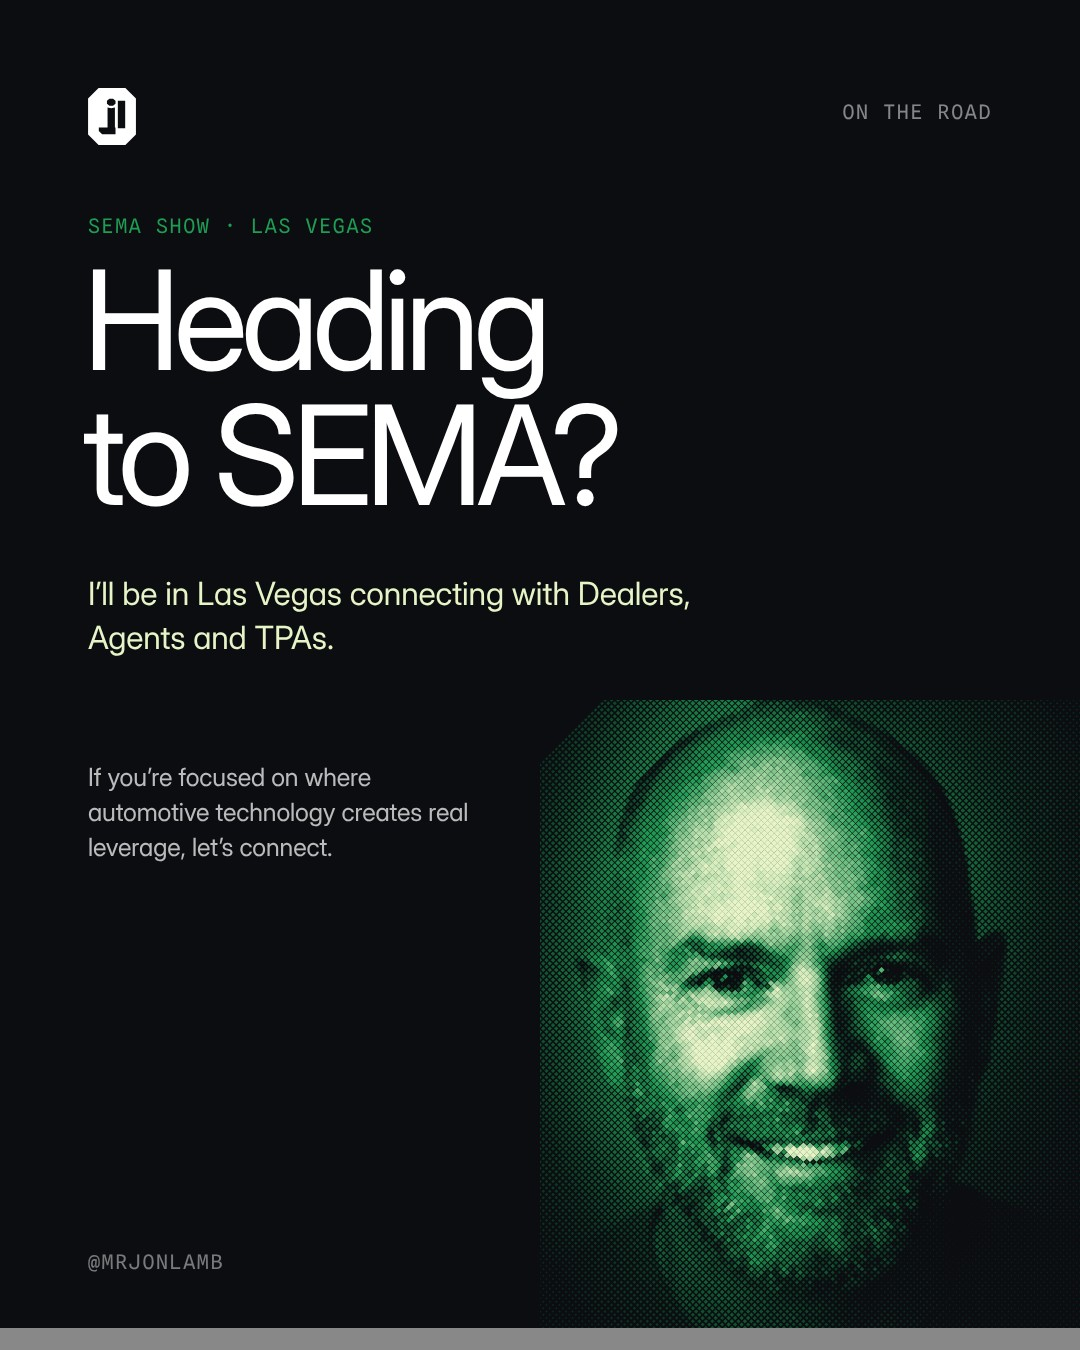
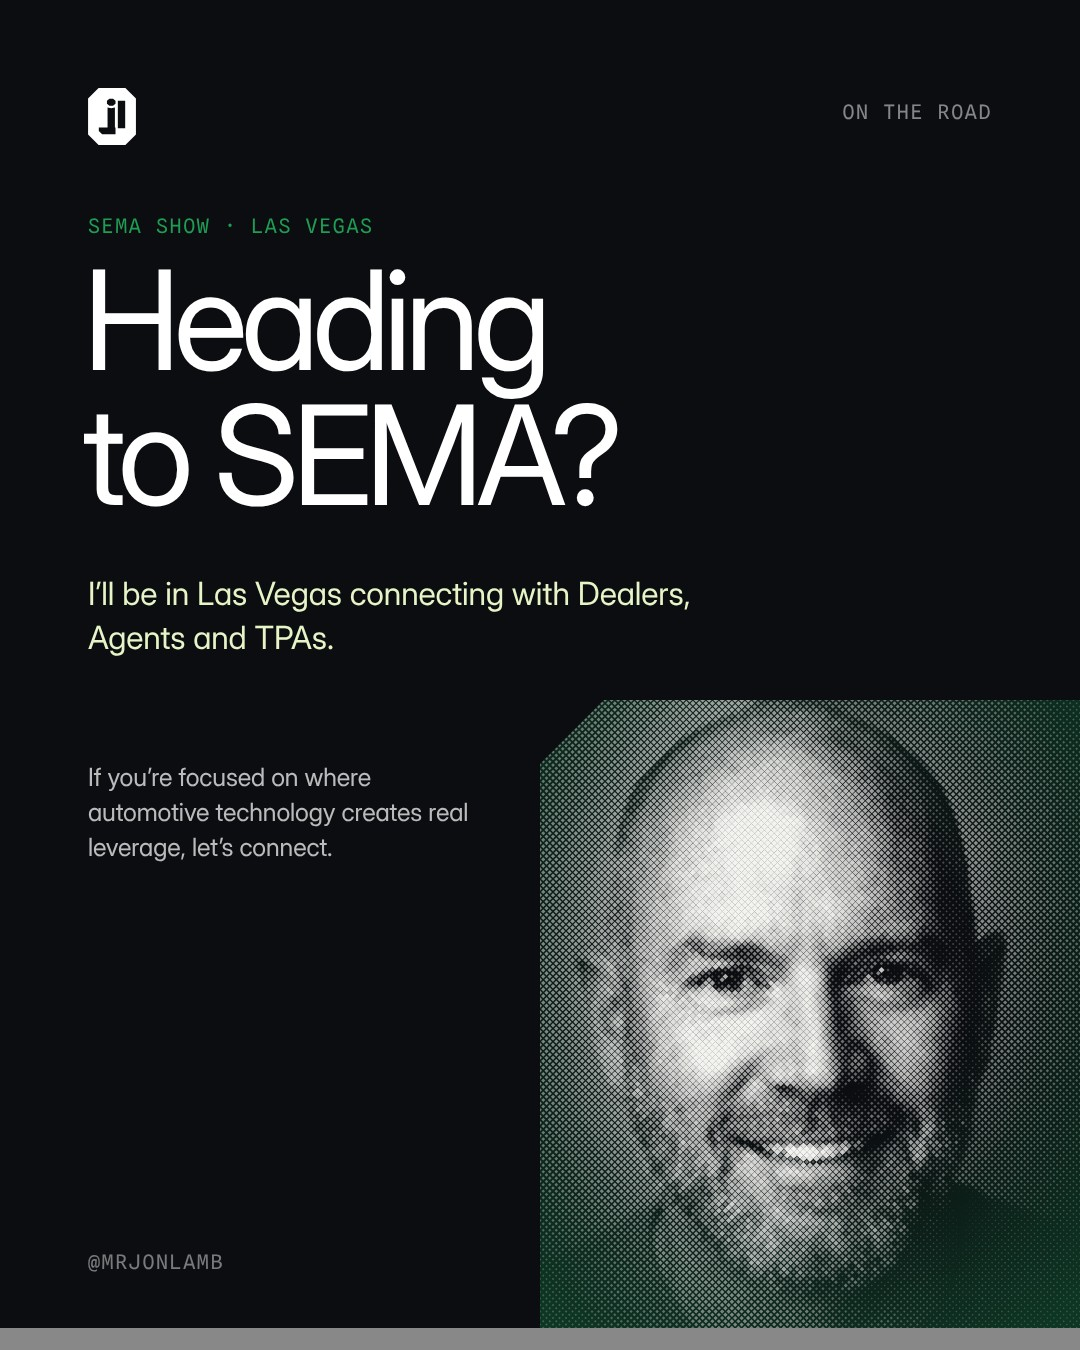
Make portraits neutral and add the personal bio lines.
Portraits now render in ink and paper with Deep Signal only in the
ground around the head, so green never tints skin. Re-renders Jon's
nine pieces, renames the plain treatment to monochrome, and adds
'dad and day trader' to the site bio and the about post.

Claude-Session: https://claude.ai/code/session_01N9uR7imwXqJUC6zuiRqo7L

Changed region(s): [[0.4889, 0.4978, 1.0, 0.9956]]

diff --git a/brand/autotech-insights-guidelines/main.js b/brand/autotech-insights-guidelines/main.js
@@ -106,14 +106,22 @@ const photoData = (img, w, h, fy) => { const c = document.createElement('canvas'
   const k = Math.max(w / img.naturalWidth, h / img.naturalHeight), dw = img.naturalWidth * k, dh = img.naturalHeight * k;
   x.imageSmoothingQuality = 'high'; x.drawImage(img, (w - dw) / 2, (h - dh) * fy, dw, dh); return x.getImageData(0, 0, w, h).data; };
 const tone = (d, i) => Math.pow(Math.min(1, Math.max(0, ((d[i] * .2126 + d[i + 1] * .7152 + d[i + 2] * .0722) / 255 - .16) / .66)), 1.08);
+const PHC = { ink: [11, 13, 16], paper: [243, 243, 240], deep: [14, 59, 38] };
+const mix3 = (p, q, t) => [Math.round(p[0] + (q[0] - p[0]) * t), Math.round(p[1] + (q[1] - p[1]) * t), Math.round(p[2] + (q[2] - p[2]) * t)];
+/* portraits stay neutral: ink to paper on dark, paper to ink on light. Green only enters the ground at the edge of the vignette, never the face. */
+const photoGround = (mode, e) => mode ? PHC.paper : mix3(PHC.ink, PHC.deep, e * .9);
+const photoRGB = (mode, t, e) => mode ? mix3(PHC.paper, PHC.ink, t * .94) : mix3(photoGround(0, e), PHC.paper, t);
 const drawPhoto = (cv, img) => { const mode = +(cv.dataset.mode || 0), r = cv.getBoundingClientRect(); if (!r.width || !img.naturalWidth) return;
   const dpr = Math.min(devicePixelRatio || 1, 2), W = cv.width = Math.round(r.width * dpr), H = cv.height = Math.round(r.height * dpr), x = cv.getContext('2d'), fy = +(cv.dataset.fy || .5);
-  if (cv.dataset.treat === 'duo') { const d = photoData(img, W, H, fy), vg = +(cv.dataset.vig || .78), out = x.createImageData(W, H), lut = Array.from({ length: 256 }, (_, i) => rampRGB(mode, mode ? 1 - i / 255 * .96 : i / 255 * .97 + .03));
-    for (let i = 0; i < d.length; i += 4) { const q = i / 4, dx = (q % W) / W - .5, dy = Math.floor(q / W) / H - (fy * .3 + .33), k = 1 - vg * Math.min(1, Math.max(0, (Math.hypot(dx, dy * .9) - .3) / .34)); const tv = tone(d, i); const c = lut[Math.round((mode ? 1 - (1 - tv) * k : tv * k) * 255)]; out.data[i] = c[0]; out.data[i + 1] = c[1]; out.data[i + 2] = c[2]; out.data[i + 3] = 255; } x.putImageData(out, 0, 0); return; }
+  const vg = +(cv.dataset.vig || .8), cy = fy * .3 + .33, edge = (nx, ny) => Math.min(1, Math.max(0, (Math.hypot(nx - .5, (ny - cy) * .9) - .3) / .34));
+  if (cv.dataset.treat === 'mono') { const d = photoData(img, W, H, fy), out = x.createImageData(W, H);
+    for (let i = 0; i < d.length; i += 4) { const q = i / 4, e = edge((q % W) / W, Math.floor(q / W) / H), tv = tone(d, i), c = photoRGB(mode, (mode ? 1 - tv : tv) * (1 - vg * e), e);
+      out.data[i] = c[0]; out.data[i + 1] = c[1]; out.data[i + 2] = c[2]; out.data[i + 3] = 255; } x.putImageData(out, 0, 0); return; }
   const c = (+cv.dataset.cell || 5) * dpr * Math.SQRT2, hc = c / 2, sw = Math.ceil(W / hc) + 2, sh = Math.ceil(H / hc) + 2, d = photoData(img, sw, sh, fy);
-  x.fillStyle = 'rgb(' + rampRGB(mode, 0) + ')'; x.fillRect(0, 0, W, H);
-  for (let j = 0; j < sh; j++) for (let i = 0; i * c < W + c; i++) { const px = i * c + (j & 1) * hc, py = j * hc, sx = Math.min(sw - 1, Math.round(px / hc)), v = tone(d, (j * sw + sx) * 4), vg = +(cv.dataset.vig || .78), kk = 1 - vg * Math.min(1, Math.max(0, (Math.hypot(px / W - .5, (py / H - (fy * .3 + .33)) * .9) - .3) / .34)), t = (mode ? 1 - v : v) * kk;
-    const h = hc * Math.sqrt(t) * 1.03; if (h < .35) continue; x.fillStyle = 'rgb(' + rampRGB(mode, Math.min(1, t * .9 + .1)) + ')'; x.beginPath(); x.moveTo(px, py - h); x.lineTo(px + h, py); x.lineTo(px, py + h); x.lineTo(px - h, py); x.fill(); } };
+  if (mode) { x.fillStyle = 'rgb(' + PHC.paper + ')'; x.fillRect(0, 0, W, H); }
+  else { const g = x.createRadialGradient(W * .5, H * cy, W * .3, W * .5, H * cy, Math.max(W, H) * .66); g.addColorStop(0, 'rgb(' + photoGround(0, 0) + ')'); g.addColorStop(1, 'rgb(' + photoGround(0, 1) + ')'); x.fillStyle = g; x.fillRect(0, 0, W, H); }
+  for (let j = 0; j < sh; j++) for (let i = 0; i * c < W + c; i++) { const px = i * c + (j & 1) * hc, py = j * hc, sx = Math.min(sw - 1, Math.round(px / hc)), e = edge(px / W, py / H), v = tone(d, (j * sw + sx) * 4), t = (mode ? 1 - v : v) * (1 - vg * e);
+    const h = hc * Math.sqrt(t) * 1.03; if (h < .35) continue; x.fillStyle = 'rgb(' + photoRGB(mode, Math.min(1, t * .88 + .12), e) + ')'; x.beginPath(); x.moveTo(px, py - h); x.lineTo(px + h, py); x.lineTo(px, py + h); x.lineTo(px - h, py); x.fill(); } };
 const photoImgs = {};
 $$('canvas[data-photo]').forEach(cv => { const src = cv.dataset.photo; const im = photoImgs[src] || (photoImgs[src] = Object.assign(new Image(), { src }));
   const go = () => { drawPhoto(cv, im); new ResizeObserver(() => drawPhoto(cv, im)).observe(cv); }; im.complete && im.naturalWidth ? go() : im.addEventListener('load', go); });

diff --git a/brand/jon-lamb-site/scan.js b/brand/jon-lamb-site/scan.js
@@ -19,14 +19,22 @@ const photoData = (img, w, h, fy) => { const c = document.createElement('canvas'
   const k = Math.max(w / img.naturalWidth, h / img.naturalHeight), dw = img.naturalWidth * k, dh = img.naturalHeight * k;
   x.imageSmoothingQuality = 'high'; x.drawImage(img, (w - dw) / 2, (h - dh) * fy, dw, dh); return x.getImageData(0, 0, w, h).data; };
 const tone = (d, i) => Math.pow(Math.min(1, Math.max(0, ((d[i] * .2126 + d[i + 1] * .7152 + d[i + 2] * .0722) / 255 - .16) / .66)), 1.08);
+const PHC = { ink: [11, 13, 16], paper: [243, 243, 240], deep: [14, 59, 38] };
+const mix3 = (p, q, t) => [Math.round(p[0] + (q[0] - p[0]) * t), Math.round(p[1] + (q[1] - p[1]) * t), Math.round(p[2] + (q[2] - p[2]) * t)];
+/* portraits stay neutral: ink to paper on dark, paper to ink on light. Green only enters the ground at the edge of the vignette, never the face. */
+const photoGround = (mode, e) => mode ? PHC.paper : mix3(PHC.ink, PHC.deep, e * .9);
+const photoRGB = (mode, t, e) => mode ? mix3(PHC.paper, PHC.ink, t * .94) : mix3(photoGround(0, e), PHC.paper, t);
 const drawPhoto = (cv, img) => { const mode = +(cv.dataset.mode || 0), r = cv.getBoundingClientRect(); if (!r.width || !img.naturalWidth) return;
   const dpr = Math.min(devicePixelRatio || 1, 2), W = cv.width = Math.round(r.width * dpr), H = cv.height = Math.round(r.height * dpr), x = cv.getContext('2d'), fy = +(cv.dataset.fy || .5);
-  if (cv.dataset.treat === 'duo') { const d = photoData(img, W, H, fy), vg = +(cv.dataset.vig || .78), out = x.createImageData(W, H), lut = Array.from({ length: 256 }, (_, i) => rampRGB(mode, mode ? 1 - i / 255 * .96 : i / 255 * .97 + .03));
-    for (let i = 0; i < d.length; i += 4) { const q = i / 4, dx = (q % W) / W - .5, dy = Math.floor(q / W) / H - (fy * .3 + .33), k = 1 - vg * Math.min(1, Math.max(0, (Math.hypot(dx, dy * .9) - .3) / .34)); const tv = tone(d, i); const c = lut[Math.round((mode ? 1 - (1 - tv) * k : tv * k) * 255)]; out.data[i] = c[0]; out.data[i + 1] = c[1]; out.data[i + 2] = c[2]; out.data[i + 3] = 255; } x.putImageData(out, 0, 0); return; }
+  const vg = +(cv.dataset.vig || .8), cy = fy * .3 + .33, edge = (nx, ny) => Math.min(1, Math.max(0, (Math.hypot(nx - .5, (ny - cy) * .9) - .3) / .34));
+  if (cv.dataset.treat === 'mono') { const d = photoData(img, W, H, fy), out = x.createImageData(W, H);
+    for (let i = 0; i < d.length; i += 4) { const q = i / 4, e = edge((q % W) / W, Math.floor(q / W) / H), tv = tone(d, i), c = photoRGB(mode, (mode ? 1 - tv : tv) * (1 - vg * e), e);
+      out.data[i] = c[0]; out.data[i + 1] = c[1]; out.data[i + 2] = c[2]; out.data[i + 3] = 255; } x.putImageData(out, 0, 0); return; }
   const c = (+cv.dataset.cell || 5) * dpr * Math.SQRT2, hc = c / 2, sw = Math.ceil(W / hc) + 2, sh = Math.ceil(H / hc) + 2, d = photoData(img, sw, sh, fy);
-  x.fillStyle = 'rgb(' + rampRGB(mode, 0) + ')'; x.fillRect(0, 0, W, H);
-  for (let j = 0; j < sh; j++) for (let i = 0; i * c < W + c; i++) { const px = i * c + (j & 1) * hc, py = j * hc, sx = Math.min(sw - 1, Math.round(px / hc)), v = tone(d, (j * sw + sx) * 4), vg = +(cv.dataset.vig || .78), kk = 1 - vg * Math.min(1, Math.max(0, (Math.hypot(px / W - .5, (py / H - (fy * .3 + .33)) * .9) - .3) / .34)), t = (mode ? 1 - v : v) * kk;
-    const h = hc * Math.sqrt(t) * 1.03; if (h < .35) continue; x.fillStyle = 'rgb(' + rampRGB(mode, Math.min(1, t * .9 + .1)) + ')'; x.beginPath(); x.moveTo(px, py - h); x.lineTo(px + h, py); x.lineTo(px, py + h); x.lineTo(px - h, py); x.fill(); } };
+  if (mode) { x.fillStyle = 'rgb(' + PHC.paper + ')'; x.fillRect(0, 0, W, H); }
+  else { const g = x.createRadialGradient(W * .5, H * cy, W * .3, W * .5, H * cy, Math.max(W, H) * .66); g.addColorStop(0, 'rgb(' + photoGround(0, 0) + ')'); g.addColorStop(1, 'rgb(' + photoGround(0, 1) + ')'); x.fillStyle = g; x.fillRect(0, 0, W, H); }
+  for (let j = 0; j < sh; j++) for (let i = 0; i * c < W + c; i++) { const px = i * c + (j & 1) * hc, py = j * hc, sx = Math.min(sw - 1, Math.round(px / hc)), e = edge(px / W, py / H), v = tone(d, (j * sw + sx) * 4), t = (mode ? 1 - v : v) * (1 - vg * e);
+    const h = hc * Math.sqrt(t) * 1.03; if (h < .35) continue; x.fillStyle = 'rgb(' + photoRGB(mode, Math.min(1, t * .88 + .12), e) + ')'; x.beginPath(); x.moveTo(px, py - h); x.lineTo(px + h, py); x.lineTo(px, py + h); x.lineTo(px - h, py); x.fill(); } };
 const photoImgs = {};
 $$('canvas[data-photo]').forEach(cv => { const src = cv.dataset.photo; const im = photoImgs[src] || (photoImgs[src] = Object.assign(new Image(), { src }));
   const go = () => { drawPhoto(cv, im); new ResizeObserver(() => drawPhoto(cv, im)).observe(cv); }; im.complete && im.naturalWidth ? go() : im.addEventListener('load', go); });

diff --git a/brand/autotech-insights-guidelines/index.html b/brand/autotech-insights-guidelines/index.html
@@ -222,16 +222,16 @@
 
 <section class="s" id="photography" data-n="07" data-t="Photography">
   <div class="wrap">
-    <header class="s-head grid"><p class="lab mono rv"><span class="n">07</span>Photography</p><h2 class="rv">Screened, not scanned.</h2><p class="intro rv rv-d1">Photography enters the system through the same grid as the scan. A portrait is read for light, then drawn in the green ramp as a duotone or through the 45° screen. One portrait set carries Jon’s personal presence across LinkedIn, speaking and his own site.</p></header>
+    <header class="s-head grid"><p class="lab mono rv"><span class="n">07</span>Photography</p><h2 class="rv">Screened, not scanned.</h2><p class="intro rv rv-d1">Photography enters the system through the same grid as the scan. A portrait is read for light, then drawn in neutral ink and paper, plain or through the 45° screen. Green stays in the ground and the frame, never on the face. One portrait set carries Jon’s personal presence across LinkedIn, speaking and his own site.</p></header>
     <div class="photos">
       <figure class="rv"><div class="pf"><img src="img/jon/jon-lamb-portrait.jpg" alt="Jon Lamb, source portrait" loading="lazy"></div><figcaption><span class="n mono">S0</span><b>Source</b><span class="d">Tight headshot, plain ground, eyes to camera. Never published untreated.</span></figcaption></figure>
-      <figure class="rv rv-d1"><div class="pf"><canvas data-photo="img/jon/jon-lamb-portrait.jpg" data-treat="duo" data-fy=".5" role="img" aria-label="Jon Lamb portrait, duotone"></canvas></div><figcaption><span class="n mono">S1</span><b>Duotone</b><span class="d">Ink to Pale Lime through the ramp. For avatars and anything under 240 px.</span></figcaption></figure>
-      <figure class="rv rv-d2"><div class="pf"><canvas data-photo="img/jon/jon-lamb-portrait.jpg" data-treat="screen" data-cell="4.2" data-fy=".5" role="img" aria-label="Jon Lamb portrait, screened on ink"></canvas></div><figcaption><span class="n mono">S2</span><b>Screen on ink</b><span class="d">The primary treatment. The face rises out of the dark the way a mark does.</span></figcaption></figure>
+      <figure class="rv rv-d1"><div class="pf"><canvas data-photo="img/jon/jon-lamb-portrait.jpg" data-treat="mono" data-fy=".5" role="img" aria-label="Jon Lamb portrait, monochrome"></canvas></div><figcaption><span class="n mono">S1</span><b>Monochrome</b><span class="d">Ink to paper, no colour in the skin. For avatars and anything under 240 px.</span></figcaption></figure>
+      <figure class="rv rv-d2"><div class="pf"><canvas data-photo="img/jon/jon-lamb-portrait.jpg" data-treat="screen" data-cell="4.2" data-fy=".5" role="img" aria-label="Jon Lamb portrait, screened on ink"></canvas></div><figcaption><span class="n mono">S2</span><b>Screen on ink</b><span class="d">The primary treatment. Paper-white diamonds on ink, with Deep Signal only in the ground around the head.</span></figcaption></figure>
       <figure class="rv rv-d3"><div class="pf pap"><canvas data-photo="img/jon/jon-lamb-portrait.jpg" data-treat="screen" data-mode="1" data-cell="4.2" data-fy=".5" role="img" aria-label="Jon Lamb portrait, screened on paper"></canvas></div><figcaption><span class="n mono">S3</span><b>Screen on paper</b><span class="d">For light layouts, print and newsletters.</span></figcaption></figure>
     </div>
     <ul class="rules" style="margin-top:var(--g)">
-      <li class="rv"><b>Screened, not scanned</b><p>Photographs take the 45° screen and the ramp. Rim light and isotherms belong to marks and data only.</p></li>
-      <li class="rv rv-d1"><b>Keep the face readable</b><p>Cell no larger than 1/110 of the face width. A soft vignette drops the background so the face carries the light.</p></li>
+      <li class="rv"><b>Screened, not scanned</b><p>Photographs take the 45° screen in neutral ink and paper. The green ramp, rim light and isotherms belong to marks and data only.</p></li>
+      <li class="rv rv-d1"><b>Never tint skin</b><p>No green wash over a face. Cell no larger than 1/110 of the face width, and a soft vignette drops the background so the face carries the light.</p></li>
       <li class="rv rv-d2"><b>Frame with the cut</b><p>Portraits sit in a facet-cut frame or bleed off two edges. Avatars are the only round crop.</p></li>
     </ul>
   </div>

diff --git a/brand/jon-lamb-site/index.html b/brand/jon-lamb-site/index.html
@@ -4,7 +4,7 @@
 <meta charset="utf-8">
 <meta name="viewport" content="width=device-width,initial-scale=1,viewport-fit=cover">
 <title>Jon Lamb — Founder, Operator, Investor</title>
-<meta name="description" content="Jon Lamb works at the intersection of automotive retail, connected vehicles, fintech and insurtech. EVP at Ikon Technologies, co-founder of Coverage in a Click, founder of AutoTech Insights.">
+<meta name="description" content="Jon Lamb works at the intersection of automotive retail, connected vehicles, fintech and insurtech. EVP at Ikon Technologies, co-founder of Coverage in a Click, founder of AutoTech Insights. Dad and day trader.">
 <meta name="theme-color" content="#0B0D10">
 <meta property="og:title" content="Jon Lamb — Founder, Operator, Investor">
 <meta property="og:description" content="25 years at the intersection of automotive retail, connected vehicles, fintech and insurtech.">
@@ -50,13 +50,14 @@
         <p>I help companies navigate complex market transitions, build scalable products, and modernize how revenue, risk and customer engagement are orchestrated in the automotive ecosystem.</p>
         <p>I specialize in product strategy, AI-native platform development and marketplace design, with a focus on connected vehicle data, embedded finance and lifecycle retention systems.</p>
         <p>Right now I’m focused on how AI, identity, telematics and embedded commerce are reshaping automotive retail, fixed operations, lending, insurance and mobility services.</p>
+        <p>Away from the work, I’m a dad and a day trader. Both keep me honest about risk.</p>
       </div>
     </div>
     <ul class="facts">
       <li><b class="tnum">25+</b><span>years in automotive and mobility</span></li>
       <li><b class="tnum">2×</b><span>founder</span></li>
       <li><b class="tnum">1</b><span>patent, digital attribution systems</span></li>
-      <li><b>EN · ES</b><span>English and professional Spanish</span></li>
+      <li><b>Dad</b><span>and day trader, outside the day job</span></li>
     </ul>
   </div>
 </section>
